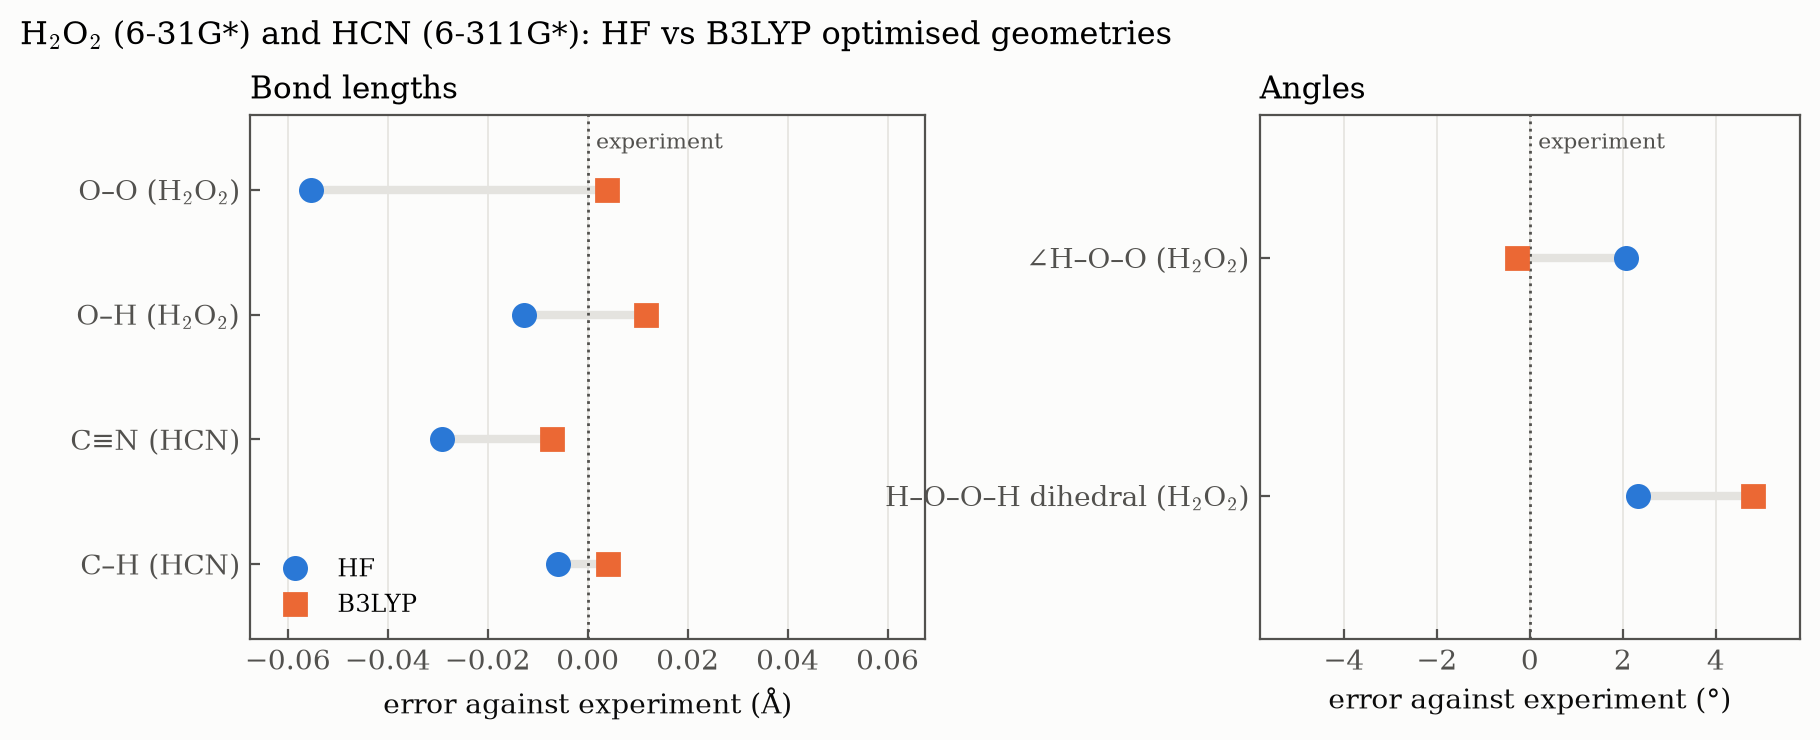
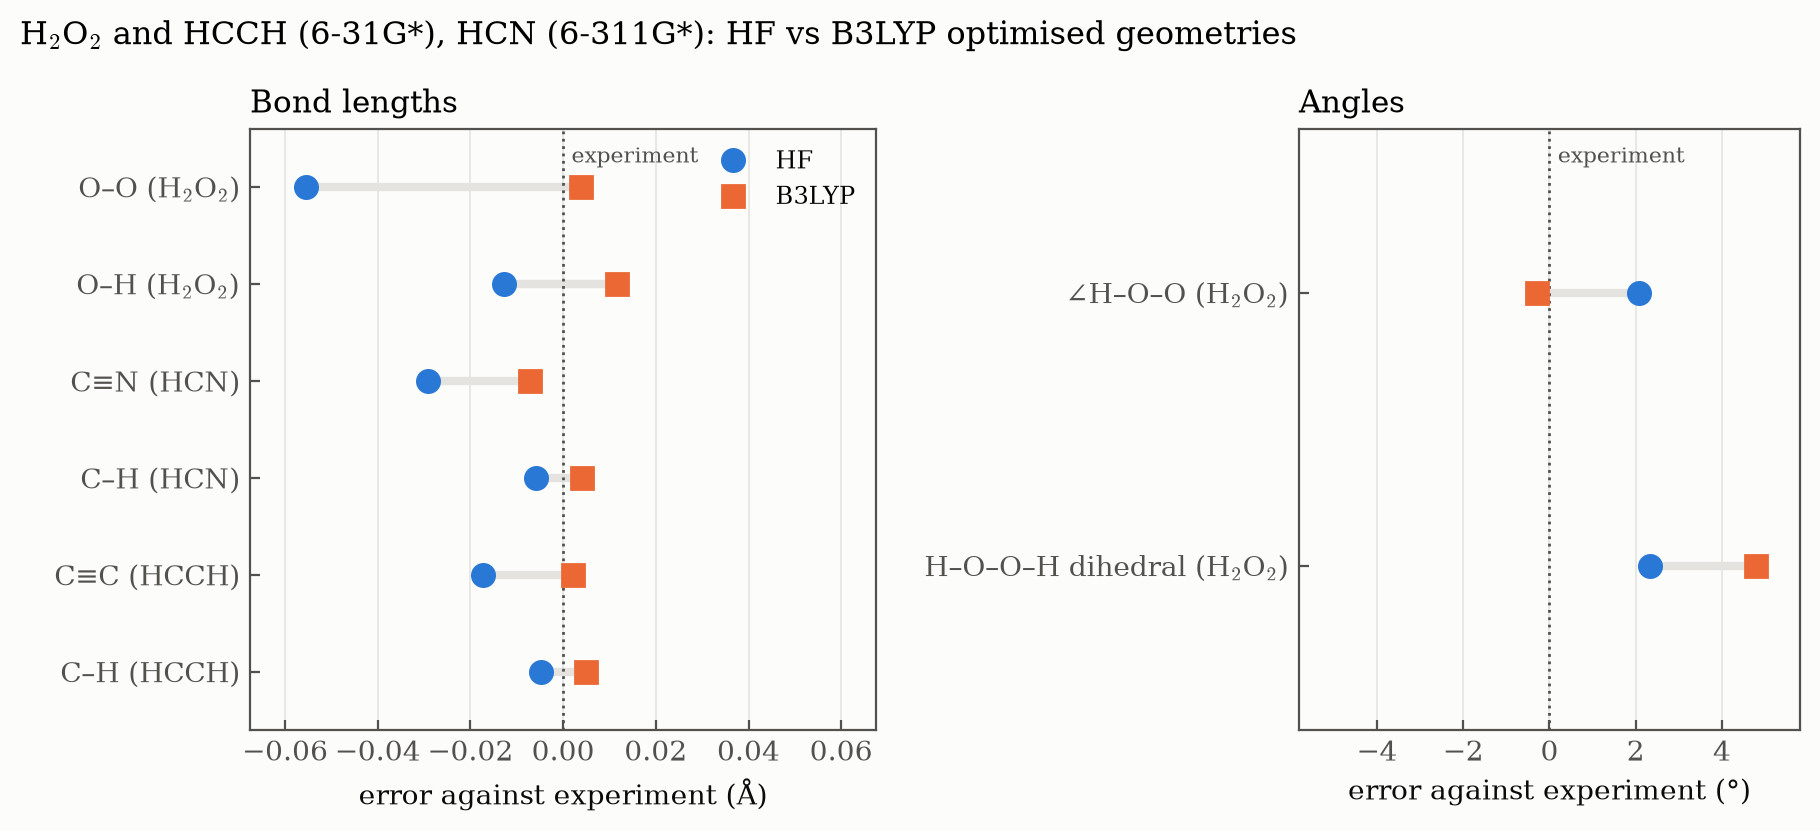
Session 03 Ex. 4: rerun acetylene with one dummy atom per carbon (D∞h)
Everything in this commit comes from correcting a design error in the
Z-matrix of the exercise. The original HCCH input had a single dummy
atom, attached to the first carbon, and the second hydrogen was placed
relative to it, so both optimisations converged to a bent molecule
(point group Cs, C-C-H about 130 degrees).

- hcch_hf.com: one dummy atom per carbon, each H placed from the dummy
  of its own carbon. HF and B3LYP now give D∞h ("D*H" in Gaussian).
- results.txt: the HCCH values of the corrected runs replace the bent
  ones; the bent values stay in the README as a record.
- README (Ex. 4): HCCH added to the comparison with experiment, with
  the experimental equilibrium structure of Tamassia et al., PCCP 2016,
  18, 1937 (most precise fit, re(CC) = 1.2028 A, re(CH) = 1.0617 A).
  The rerun is described: the bent molecule also had bonds 0.006 to
  0.011 A too long. Conclusions 1 and 3 now include acetylene: HF
  shortens C≡C by 0.017 A, B3LYP lands at +0.002 A.
- plot_figures.py and figures/hf_vs_b3lyp.png: C≡C and C-H of HCCH in
  the bond-length panel; layout adjusted for the extra rows.
- Session README: the acetylene bullet no longer says the run is
  pending.

Supervised-by: Claude Opus 5.5 <noreply@anthropic.com>

diff --git a/sessions/03-geometries-and-conformers/plot_figures.py b/sessions/03-geometries-and-conformers/plot_figures.py
@@ -239,13 +239,17 @@ def fig_nh3_modes():
 # H2O2: semi-experimental equilibrium structure, Herberth, Giesen & Yamada,
 # J. Mol. Spectrosc. 2019, 362, 37 (CCCBDB only lists a 1962 fit).
 # HCN: NIST CCCBDB.
+# HCCH: experimental (empirical) equilibrium structure, most precise fit,
+# Tamassia, Cane, Fusina & Di Lonardo, Phys. Chem. Chem. Phys. 2016, 18, 1937.
 EXP_EX4 = {
     ("hooh", "roo"): 1.4518, ("hooh", "roh"): 0.962, ("hooh", "a"): 100.0, ("hooh", "z"): 113.7,
     ("hcn", "rcn"): 1.156, ("hcn", "rch"): 1.064,
+    ("hcch", "rcc"): 1.2028, ("hcch", "rch"): 1.0617,
 }
 LABELS_EX4 = {
     ("hooh", "roo"): r"O–O (H$_2$O$_2$)", ("hooh", "roh"): r"O–H (H$_2$O$_2$)",
     ("hcn", "rcn"): "C≡N (HCN)", ("hcn", "rch"): "C–H (HCN)",
+    ("hcch", "rcc"): "C≡C (HCCH)", ("hcch", "rch"): "C–H (HCCH)",
     ("hooh", "a"): r"∠H–O–O (H$_2$O$_2$)", ("hooh", "z"): r"H–O–O–H dihedral (H$_2$O$_2$)",
 }
 
@@ -267,11 +271,12 @@ def fig_hf_vs_b3lyp():
     data = load_ex4()
     panels = [
         ("Bond lengths", "error against experiment (Å)",
-         [("hooh", "roo"), ("hooh", "roh"), ("hcn", "rcn"), ("hcn", "rch")]),
+         [("hooh", "roo"), ("hooh", "roh"), ("hcn", "rcn"), ("hcn", "rch"),
+          ("hcch", "rcc"), ("hcch", "rch")]),
         ("Angles", "error against experiment (°)", [("hooh", "a"), ("hooh", "z")]),
     ]
-    fig, axes = plt.subplots(1, 2, figsize=(10, 3.4),
-                             gridspec_kw={"width_ratios": [1.25, 1], "wspace": 0.55})
+    fig, axes = plt.subplots(1, 2, figsize=(10, 3.9),
+                             gridspec_kw={"width_ratios": [1.25, 1], "wspace": 0.75})
     for ax, (title, xlabel, keys) in zip(axes, panels):
         ax.axvline(0, color=INK_2, lw=1, ls=":")
         for i, key in enumerate(keys):
@@ -292,8 +297,8 @@ def fig_hf_vs_b3lyp():
         ax.set_xlim(-lim, lim)
         ax.annotate("experiment", xy=(0, 1), xycoords=("data", "axes fraction"),
                     xytext=(3, -12), textcoords="offset points", fontsize=8, color=INK_2)
-    axes[0].legend(loc="lower left", fontsize=8.5)
-    fig.suptitle(r"H$_2$O$_2$ (6-31G*) and HCN (6-311G*): HF vs B3LYP optimised geometries",
+    axes[0].legend(loc="upper right", fontsize=8.5)
+    fig.suptitle(r"H$_2$O$_2$ and HCCH (6-31G*), HCN (6-311G*): HF vs B3LYP optimised geometries",
                  x=0.01, ha="left", fontsize=11.5, y=1.02)
     save(fig, "hf_vs_b3lyp.png")
 

diff --git a/sessions/03-geometries-and-conformers/ex4-hf-vs-b3lyp/README.md b/sessions/03-geometries-and-conformers/ex4-hf-vs-b3lyp/README.md
@@ -26,8 +26,11 @@ Optimise hydrogen peroxide (HOOH), acetylene (HCCH) and hydrogen cyanide (HCN) w
 | **HCN** (6-311G*) | | | | | |
 | r(C≡N) (Å) | 1.1268 | 1.1489 | 1.156 | −0.029 | −0.007 |
 | r(C–H) (Å) | 1.0581 | 1.0681 | 1.064 | −0.006 | +0.004 |
+| **HCCH** (6-31G*) | | | | | |
+| r(C≡C) (Å) | 1.1855 | 1.2050 | 1.2028 | −0.017 | +0.002 |
+| r(C–H) (Å) | 1.0569 | 1.0666 | 1.0617 | −0.005 | +0.005 |
 
-Experimental values: H₂O₂, semi-experimental equilibrium structure from Herberth, Giesen and Yamada, *J. Mol. Spectrosc.* **2019**, 362, 37 ([arXiv:2105.09186](https://arxiv.org/abs/2105.09186)); NIST CCCBDB lists only an older 1962 fit (1.475 Å, 0.950 Å, 94.8°, 119.8°). HCN: NIST CCCBDB. All six optimisations converged ("Stationary point found").
+Experimental values: H₂O₂, semi-experimental equilibrium structure from Herberth, Giesen and Yamada, *J. Mol. Spectrosc.* **2019**, 362, 37 ([arXiv:2105.09186](https://arxiv.org/abs/2105.09186)); NIST CCCBDB lists only an older 1962 fit (1.475 Å, 0.950 Å, 94.8°, 119.8°). HCN: NIST CCCBDB. HCCH: experimental (empirical) equilibrium structure from Tamassia, Cané, Fusina and Di Lonardo, *Phys. Chem. Chem. Phys.* **2016**, 18, 1937 ([doi:10.1039/C5CP05997F](https://doi.org/10.1039/C5CP05997F)), fitted to the measured rotational constants of the isotopologues; the values are their most precise fit, re(CC) = 120.2817(12) pm and re(CH) = 106.1689(23) pm. All six optimisations of the final inputs converged ("Stationary point found"); for HCCH, these are the reruns with the corrected Z-matrix described below.
 
 ![HF vs B3LYP: error against experiment](../figures/hf_vs_b3lyp.png)
 
@@ -61,17 +64,19 @@ H 1 rch 3 90.0 2 180.0
 H 2 rch 4 90.0 1 180.0
 ```
 
-This is exactly the Z-matrix already written in [Session 01](../../01-linux-and-z-matrices/z-matrices/hcch.zmat). Converting both Z-matrices to Cartesian coordinates confirms the diagnosis: the original one gives 129.8° for the second H, the same as Gaussian, and the corrected one gives 180.0° for both. The bent results (HF: r(C≡C) = 1.1965 Å, r(C–H) = 1.0624 Å; B3LYP: 1.2162 Å and 1.0730 Å) are kept in [`results.txt`](results.txt) for the record, but they are not the geometry of acetylene and are left out of the comparison. The inputs in this folder are the ones that were run. The calculation with the corrected Z-matrix is pending.
+This is exactly the Z-matrix already written in [Session 01](../../01-linux-and-z-matrices/z-matrices/hcch.zmat). Converting both Z-matrices to Cartesian coordinates confirms the diagnosis: the original one gives 129.8° for the second H, the same as Gaussian, and the corrected one gives 180.0° for both.
+
+**The rerun.** With the corrected Z-matrix, both methods give a linear molecule, point group D∞h (printed by Gaussian as `D*H`), and the bond lengths in the table above. The bent molecule had bonds 0.006 to 0.011 Å longer than the linear one (HF: r(C≡C) = 1.1965 Å, r(C–H) = 1.0624 Å; B3LYP: 1.2162 Å and 1.0730 Å, kept here for the record), so the constraint did not only bend the molecule: it also stretched its bonds. The inputs in this folder are now the corrected ones.
 
 **Lesson:** "Stationary point found" means the optimiser found the minimum *of the coordinates it was allowed to change*. It says nothing about whether the constraints were right. Checking the point group in the output (Cs where D∞h was expected) is the quickest way to catch this kind of error.
 
 ## Conclusions
 
-1. **HF systematically shortens bonds between heavy atoms.** The largest errors appear in bonds involving lone pairs or multiple bonds: the O–O bond of HOOH is 0.055 Å too short, and the C≡N bond of HCN 0.029 Å too short. As in [Ex. 1](../ex1-optimized-geometries/), this reflects the lack of electron correlation in the Hartree–Fock method.
+1. **HF systematically shortens bonds between heavy atoms.** The largest errors appear in bonds involving lone pairs or multiple bonds: the O–O bond of HOOH is 0.055 Å too short, the C≡N bond of HCN 0.029 Å and the C≡C bond of HCCH 0.017 Å. As in [Ex. 1](../ex1-optimized-geometries/), this reflects the lack of electron correlation in the Hartree–Fock method.
 
 2. **B3LYP largely corrects these errors.** With B3LYP, the O–O and C≡N distances fall within 0.007 Å of experiment, and the H–O–O angle improves from +2.1° (HF) to −0.3°. Including electron correlation, even approximately through the exchange–correlation functional, is essential to describe these bonds accurately.
 
-3. **Acetylene.** The HCCH results are not compared here: the Z-matrix produced a bent molecule (see [above](#acetylene-came-out-bent)), so its bond lengths do not describe acetylene. This conclusion will be completed once the corrected calculation is run.
+3. **Acetylene follows the same pattern.** With the corrected Z-matrix (see [above](#acetylene-came-out-bent)), HF shortens the C≡C bond by 0.017 Å and B3LYP leaves it at +0.002 Å, as for O–O and C≡N. For the C–H bond both methods miss by about 0.005 Å, with opposite signs, as in HCN: in bonds to hydrogen, correlation matters much less.
 
 4. **The HOOH dihedral angle is the most sensitive parameter.** Both methods overestimate it, HF by 2.3° and B3LYP by 4.8°: B3LYP, which improves every other parameter, is worse here. The torsional potential energy surface of H₂O₂ is very flat, so small errors in the computed energy shift the position of the minimum considerably.
 
@@ -88,7 +93,7 @@ Both scripts are commented line by line.
 
 | File | What it is |
 |---|---|
-| [`hooh_hf.com`](hooh_hf.com), [`hcch_hf.com`](hcch_hf.com), [`hcn_hf.com`](hcn_hf.com) | Hand-written HF inputs, used as templates (HCCH as run, with the Z-matrix error) |
+| [`hooh_hf.com`](hooh_hf.com), [`hcch_hf.com`](hcch_hf.com), [`hcn_hf.com`](hcn_hf.com) | Hand-written HF inputs, used as templates (HCCH with one dummy atom per carbon, the corrected rerun) |
 | [`generate.sh`](generate.sh) | Builds the B3LYP inputs and runs all six jobs |
 | [`extract.sh`](extract.sh) | Prints the optimised variables of every output |
 | [`results.txt`](results.txt) | Output of `extract.sh` |

diff --git a/sessions/03-geometries-and-conformers/README.md b/sessions/03-geometries-and-conformers/README.md
@@ -108,7 +108,7 @@ H₂O₂ (6-31G*), HCN (6-311G*) and HCCH (6-31G*) are optimised with Hartree–
 - **HF shortens bonds between heavy atoms**, most where there are lone pairs or multiple bonds: O–O by 0.055 Å, C≡N by 0.029 Å.
 - **B3LYP brings both within 0.007 Å of experiment**, and the H–O–O angle from +2.1° to −0.3°.
 - **The H–O–O–H dihedral defeats both methods** (+2.3° and +4.8°): the torsional surface is very flat, so a small error in the energy moves the minimum a long way.
-- **Acetylene came out bent.** The Z-matrix defines the second H relative to a dummy atom that sits on the first carbon, so the C–C–H angle stayed at about 130°. The diagnosis, the corrected Z-matrix and the lesson are in the exercise README; the corrected run is pending.
+- **Acetylene came out bent.** The Z-matrix defines the second H relative to a dummy atom that sits on the first carbon, so the C–C–H angle stayed at about 130°. Rerun with one dummy atom per carbon, it is linear (D∞h) with both methods: HF shortens C≡C by 0.017 Å, and B3LYP lands 0.002 Å from experiment. The diagnosis and the lesson are in the exercise README.
 
 Full table and conclusions: [Ex. 4 README](ex4-hf-vs-b3lyp/).
 
